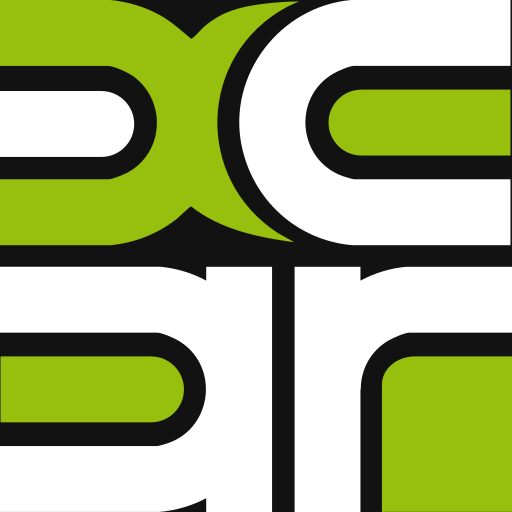
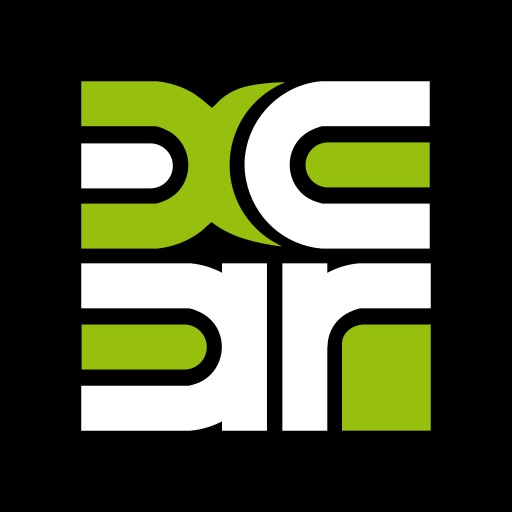
Три приложения как настоящие: иконки Дмитрия, имена XCar · CRM XCar · Park XCar, экраны запуска iOS
Иконки — рисунки из resources/icons: чёрный квадрат во весь холст без своих
эффектов, стекло на iOS 26 и маску на Android кладёт система. scripts/icons.mjs
собирает favicon.svg/ico, apple-touch 180, 192/512/1024, maskable, белый силуэт
(темы Android и бейдж уведомлений), ярлыки долгого нажатия из иконок кита и
экраны запуска iOS под 12 iPhone в светлой и тёмной теме (горизонтальный логотип
на цвете полосы). Манифест: чёрные background/theme_color, launch_handler
navigate-existing, иконки у ярлыков. В head — mobile-web-app-capable,
format-detection telephone=no, favicon.ico. Воркер v4 (кэш /pwa/ обновится).
В кабинете кнопка «Установить приложение»: Android — системный диалог, iOS —
подсказка. Пустой public/favicon.ico заменён настоящим.

diff --git a/resources/js/controllers/pwa_controller.js b/resources/js/controllers/pwa_controller.js
@@ -1,14 +1,20 @@
 import { Controller } from '@hotwired/stimulus';
 
-// Приложение на телефоне: воркер, бейдж на иконке, подсказка «на экран Домой».
+// Приложение на телефоне: воркер, бейдж на иконке, установка на экран «Домой».
 export default class extends Controller {
+    static targets = ['install'];
+
     connect() {
         this.register();
         this.badge();
         this.onLoad = () => this.badge();
         document.addEventListener('turbo:load', this.onLoad);
         this.installHint();
-        window.addEventListener('beforeinstallprompt', (e) => { e.preventDefault(); window.installPrompt = e; });
+        // Android: Chrome отдаёт событие один раз на полную загрузку, дальше живёт в window
+        // (тело страницы Turbo меняет, контроллер подключается заново).
+        window.addEventListener('beforeinstallprompt', (e) => { e.preventDefault(); window.installPrompt = e; this.showInstall(); });
+        window.addEventListener('appinstalled', () => { window.installPrompt = null; this.showInstall(); });
+        this.showInstall();
     }
 
     disconnect() {
@@ -27,15 +33,42 @@ export default class extends Controller {
         (count > 0 ? navigator.setAppBadge(count) : navigator.clearAppBadge()).catch(() => {});
     }
 
+    get standalone() {
+        return window.matchMedia('(display-mode: standalone)').matches || navigator.standalone;
+    }
+
+    get ios() {
+        return /iphone|ipad/i.test(navigator.userAgent) && !window.MSStream;
+    }
+
+    // Кнопка «Установить приложение» в кабинете: на Android — когда Chrome готов, на iOS — всегда вне приложения.
+    showInstall() {
+        if (!this.hasInstallTarget) return;
+        this.installTarget.hidden = this.standalone || !(window.installPrompt || this.ios);
+    }
+
+    async install() {
+        if (window.installPrompt) {
+            window.installPrompt.prompt();
+            const { outcome } = await window.installPrompt.userChoice;
+            if (outcome === 'accepted') window.installPrompt = null;
+            this.showInstall();
+            return;
+        }
+        this.hint();
+    }
+
     // iOS: только «Поделиться → На экран Домой», подсказываем не чаще раза в неделю.
     installHint() {
-        const standalone = window.matchMedia('(display-mode: standalone)').matches || navigator.standalone;
-        const ios = /iphone|ipad/i.test(navigator.userAgent) && !window.MSStream;
-        if (standalone || !ios || !document.querySelector('meta[name="badge-count"]')) return;
+        if (this.standalone || !this.ios || !document.querySelector('meta[name="badge-count"]')) return;
         let last = 0;
         try { last = Number(localStorage.getItem('install-hint') || 0); } catch {}
         if (Date.now() - last < 7 * 86400 * 1000) return;
         try { localStorage.setItem('install-hint', String(Date.now())); } catch {}
-        setTimeout(() => window.toast?.(`Добавьте ${document.querySelector('meta[name="apple-mobile-web-app-title"]')?.content ?? 'XCar'} на экран «Домой»: Поделиться → На экран «Домой»`), 3000);
+        setTimeout(() => this.hint(), 3000);
+    }
+
+    hint() {
+        window.toast?.(`Добавьте ${document.querySelector('meta[name="apple-mobile-web-app-title"]')?.content ?? 'XCar'} на экран «Домой»: Поделиться → На экран «Домой»`);
     }
 }

diff --git a/public/sw.js b/public/sw.js
@@ -1,7 +1,7 @@
 // Service worker XCar. HTML — только из сети (страницы живые), при обрыве
 // — /offline. Сборка и картинки — из кэша, картинок не больше ~40 МБ:
 // у iOS потолок около 50.
-const VERSION = 'v3';
+const VERSION = 'v4';
 const STATIC = `static-${VERSION}`;
 const MEDIA = `media-${VERSION}`;
 const MEDIA_LIMIT = 400;
@@ -63,7 +63,7 @@ self.addEventListener('push', (event) => {
     event.waitUntil(self.registration.showNotification(n.title || 'XCar', {
         body: n.body || '',
         icon: `/pwa/${surface()}/icon-192.png`,
-        badge: `/pwa/${surface()}/icon-192.png`,
+        badge: `/pwa/${surface()}/icon-mono-512.png`, // Android рисует бейдж силуэтом
         tag: n.tag,
         data: { navigate: n.navigate || '/' },
     }));

diff --git a/app/Http/Pwa/PwaController.php b/app/Http/Pwa/PwaController.php
@@ -12,36 +12,46 @@ class PwaController
         $surface = Surface::current();
         $dir = '/pwa/'.$surface->value;
 
-        [$description, $start, $shortcuts] = match ($surface) {
-            Surface::Site => ['Предложения, сделки, закупки', '/', [
-                ['name' => 'Предложения', 'url' => '/'], ['name' => 'Сделки', 'url' => '/lk/sdelki'], ['name' => 'Уведомления', 'url' => '/lk/uvedomleniya'],
+        [$description, $shortcuts] = match ($surface) {
+            Surface::Site => ['Предложения, сделки, закупки', [
+                ['Предложения', '/', 'car'], ['Сделки', '/lk/sdelki', 'deal'], ['Уведомления', '/lk/uvedomleniya', 'bell'],
             ]],
-            Surface::Crm => ['Предложения, галерея, работа, закупки', '/', [
-                ['name' => 'Предложения', 'url' => '/'], ['name' => 'Галерея', 'url' => '/galereya'], ['name' => 'Работа', 'url' => '/rabota'], ['name' => 'Закупки', 'url' => '/zakupki'],
+            Surface::Crm => ['Предложения, галерея, работа, закупки', [
+                ['Предложения', '/', 'car'], ['Галерея', '/galereya', 'photo'], ['Работа', '/rabota', 'deal'], ['Закупки', '/zakupki', 'cart'],
             ]],
-            Surface::Park => ['Заявки, машины, стоянки', '/', [
-                ['name' => 'Заявки', 'url' => '/'], ['name' => 'Машины', 'url' => '/mashiny'],
+            Surface::Park => ['Заявки, машины, стоянки', [
+                ['Заявки', '/', 'flag'], ['Машины', '/mashiny', 'car'],
             ]],
         };
 
+        // Иконка — чёрный квадрат во весь холст: стекло на iOS 26 и маску на Android кладёт система,
+        // поэтому фон запуска и полосы — тот же чёрный, чтобы квадрат не читался на сером.
         return response()->json([
             'name' => $surface->label(),
             'short_name' => $surface->short(),
             'description' => $description,
-            'start_url' => $start,
-            'id' => $start,
+            'start_url' => '/',
+            'id' => '/',
             'scope' => '/',
             'display' => 'standalone',
+            'display_override' => ['standalone'],
             'orientation' => 'portrait',
-            'background_color' => '#121212',
-            'theme_color' => '#121212',
+            'background_color' => '#000000',
+            'theme_color' => '#000000',
             'lang' => 'ru',
+            'categories' => ['business'],
+            'launch_handler' => ['client_mode' => 'navigate-existing'],
             'icons' => [
-                ['src' => "$dir/icon-192.png", 'sizes' => '192x192', 'type' => 'image/png'],
-                ['src' => "$dir/icon-512.png", 'sizes' => '512x512', 'type' => 'image/png'],
+                ['src' => "$dir/icon-192.png", 'sizes' => '192x192', 'type' => 'image/png', 'purpose' => 'any'],
+                ['src' => "$dir/icon-512.png", 'sizes' => '512x512', 'type' => 'image/png', 'purpose' => 'any'],
+                ['src' => "$dir/icon-1024.png", 'sizes' => '1024x1024', 'type' => 'image/png', 'purpose' => 'any'],
                 ['src' => "$dir/icon-maskable-512.png", 'sizes' => '512x512', 'type' => 'image/png', 'purpose' => 'maskable'],
+                ['src' => "$dir/icon-mono-512.png", 'sizes' => '512x512', 'type' => 'image/png', 'purpose' => 'monochrome'],
             ],
-            'shortcuts' => $shortcuts,
+            'shortcuts' => array_map(fn ($s) => [
+                'name' => $s[0], 'url' => $s[1],
+                'icons' => [['src' => "$dir/shortcut-$s[2].png", 'sizes' => '96x96', 'type' => 'image/png']],
+            ], $shortcuts),
         ], 200, ['Content-Type' => 'application/manifest+json', 'Cache-Control' => 'public, max-age=3600']);
     }
 

diff --git a/resources/views/components/ui/layout.blade.php b/resources/views/components/ui/layout.blade.php
@@ -14,13 +14,18 @@
     <meta name="mercure-hub" content="/.well-known/mercure">
     <meta name="mercure-topics" content="{{ implode(',', \App\Live\Topics::for(auth()->user(), app(\App\Chats\GuestEnquiry::class)->chat(request())?->id)) }}">
     @endif
+    <meta name="mobile-web-app-capable" content="yes">
     <meta name="apple-mobile-web-app-capable" content="yes">
     <meta name="apple-mobile-web-app-status-bar-style" content="black-translucent">
     <meta name="apple-mobile-web-app-title" content="{{ $surface->short() }}">
+    {{-- Иначе iOS делает из цены «1 250 000» телефонную ссылку; номера телефонов — сами tel:. --}}
+    <meta name="format-detection" content="telephone=no">
     <title>{{ $title ? "$title — " : '' }}{{ $surface->label() }}</title>
     <link rel="icon" href="/pwa/{{ $surface->value }}/favicon.svg" type="image/svg+xml">
-    <link rel="apple-touch-icon" href="/pwa/{{ $surface->value }}/apple-touch-icon.png">
+    <link rel="icon" href="/pwa/{{ $surface->value }}/favicon.ico" sizes="32x32">
+    <link rel="apple-touch-icon" sizes="180x180" href="/pwa/{{ $surface->value }}/apple-touch-icon.png">
     <link rel="manifest" href="/manifest.webmanifest">
+    <x-ui.startup/>
     @auth<meta name="badge-count" content="{{ auth()->user()->unreadCount() }}">@endauth
     @if (config('xcar.vapid.public'))<meta name="vapid-key" content="{{ config('xcar.vapid.public') }}">@endif
     <link rel="preload" href="/fonts/onest-var.woff2" as="font" type="font/woff2" crossorigin>

diff --git a/resources/views/components/ui/startup.blade.php b/resources/views/components/ui/startup.blade.php
@@ -1,0 +1,13 @@
+{{-- Экраны запуска iOS: под каждый iPhone своя картинка (iOS требует точный размер), светлая и тёмная.
+     Список экранов тот же, что в scripts/icons.mjs; картинки — public/pwa/splash. --}}
+@php
+$screens = [
+    [440, 956, 3], [402, 874, 3], [430, 932, 3], [393, 852, 3], [428, 926, 3], [420, 912, 3],
+    [390, 844, 3], [375, 812, 3], [414, 896, 3], [414, 896, 2], [414, 736, 3], [375, 667, 2],
+];
+@endphp
+@foreach ($screens as [$w, $h, $r])
+@foreach (['light' => '', 'dark' => '-dark'] as $scheme => $suffix)
+    <link rel="apple-touch-startup-image" href="/pwa/splash/splash-{{ $w * $r }}x{{ $h * $r }}{{ $suffix }}.png" media="(device-width: {{ $w }}px) and (device-height: {{ $h }}px) and (-webkit-device-pixel-ratio: {{ $r }}) and (orientation: portrait) and (prefers-color-scheme: {{ $scheme }})">
+@endforeach
+@endforeach

diff --git a/app/Support/Surface.php b/app/Support/Surface.php
@@ -48,18 +48,15 @@ enum Surface: string
     {
         return match ($this) {
             self::Site => 'XCar',
-            self::Crm => 'XCar CRM',
-            self::Park => 'XCar Стоянка',
+            self::Crm => 'CRM XCar',
+            self::Park => 'Park XCar',
         };
     }
 
+    /** Имя под иконкой на экране «Домой» — совпадает с label(), в 12 знаков укладывается. */
     public function short(): string
     {
-        return match ($this) {
-            self::Site => 'XCar',
-            self::Crm => 'CRM',
-            self::Park => 'Стоянка',
-        };
+        return $this->label();
     }
 
     /** Слово слева от логотипа в шапке; у сайта его нет. */

diff --git a/resources/views/cabinet/index.blade.php b/resources/views/cabinet/index.blade.php
@@ -10,6 +10,7 @@
     <div class="mt-8 flex flex-wrap gap-2">
         <a href="{{ $button[0] }}" class="btn btn-accent">{{ $button[1] }}</a>
         @if ($crm)<a href="{{ \App\Support\Surface::Crm->url() }}" class="btn btn-quiet" data-turbo="false">В CRM</a>@endif
+        <button type="button" class="btn btn-quiet" hidden data-pwa-target="install" data-action="pwa#install">Установить приложение</button>
         @if (\App\Support\Surface::current() === \App\Support\Surface::Park)
             <form method="post" action="/vyhod" class="contents">@csrf<x-ui.button variant="secondary"><x-ui.icon name="exit" class="size-5"/> Выйти</x-ui.button></form>
         @endif

diff --git a/notes/etap-8-9-2026-09-12.md b/notes/etap-8-9-2026-09-12.md
@@ -3,8 +3,26 @@
 ## PWA (без HTTPS проверено только локально)
 
 - Манифест `GET /manifest.webmanifest` — свой на хост (`PwaController`):
-  имя, стартовая, ярлыки, иконки `public/pwa/*` (генерирует
-  `node scripts/icons.mjs` из `favicon.svg`, лежат в git).
+  имя (XCar · CRM XCar · Park XCar), стартовая, ярлыки с иконками кита,
+  иконки `any` 192/512/1024, maskable, monochrome; `background_color` и
+  `theme_color` чёрные — как холст иконки; `launch_handler: navigate-existing`.
+- Иконки — рисунки Дмитрия `resources/icons/{site,crm,park}.svg`: чёрный
+  квадрат 1500×1500, знак белым и лаймом. Правило: квадрат во весь холст без
+  своих скруглений, бликов и теней — на iOS 26 стекло (Liquid Glass), режимы
+  Clear/Tinted и маску кладёт сама система из одной картинки, слоёв у веба
+  нет; чёрный фон с белым знаком — лучший случай для всех режимов. Android
+  режет по маске лаунчера — для него maskable (знак в круге 80 %) и белый
+  силуэт `icon-mono-512.png` (темы Android 13, бейдж уведомления — Android
+  рисует его силуэтом). `node scripts/icons.mjs` кладёт всё в `public/pwa/*`
+  (в git): favicon.svg/ico, apple-touch 180, 192/512/1024, maskable, mono,
+  ярлыки 96, экраны запуска iOS `public/pwa/splash` (12 iPhone × светлая/
+  тёмная — горизонтальный логотип на цвете полосы; iOS требует точный
+  размер, список в `components/ui/startup.blade.php`). iOS кэширует иконку и
+  экран запуска при добавлении — после смены ярлык добавляют заново.
+- `<head>`: `mobile-web-app-capable`, `format-detection telephone=no`
+  (иначе цены — телефонные ссылки), favicon.ico рядом с svg.
+- Кнопка «Установить приложение» в кабинете: Android — `beforeinstallprompt`
+  → системный диалог, iOS — подсказка «Поделиться → На экран Домой».
 - `public/sw.js` — без сборки: HTML только из сети (при обрыве `/offline`),
   `/build`, `/fonts`, `/pwa`, `/images` — из кэша, `/media` — кэш до 400
   файлов (iOS режет около 50 МБ). Пуш и клик по уведомлению — для Android;

diff --git a/notes/tri-prilozheniya-2026-09-12.md b/notes/tri-prilozheniya-2026-09-12.md
@@ -1,4 +1,4 @@
-# Три приложения: XCar, XCar CRM, XCar Стоянка (12.09.2026)
+# Три приложения: XCar, CRM XCar, Park XCar (12.09.2026)
 
 Одно приложение разложено на три хоста с одним оформлением.
 
